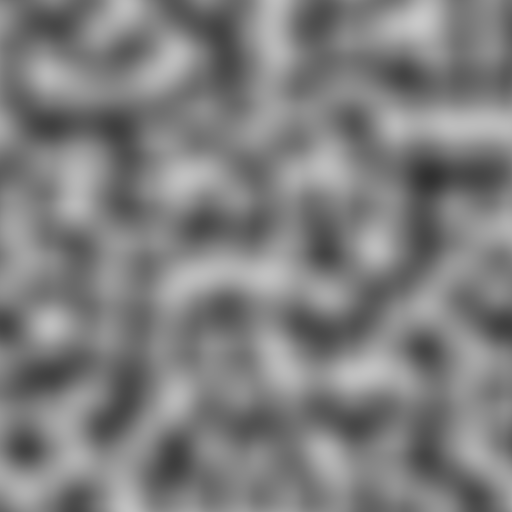
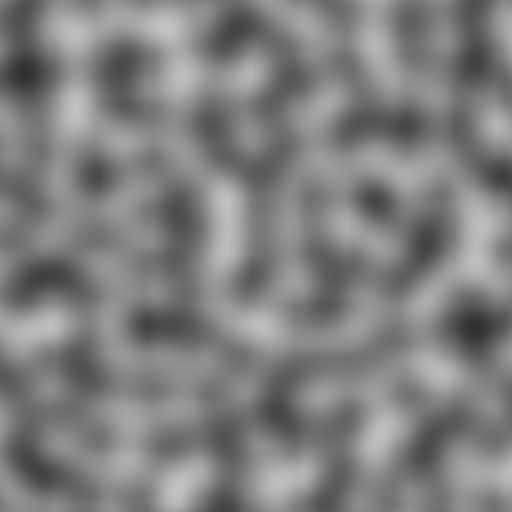
removed useless types anotation

diff --git a/src/main.rs b/src/main.rs
@@ -1,5 +1,5 @@
 use image::{GrayImage, Luma};
-use rand::{RngExt, rngs::ThreadRng};
+use rand::RngExt;
 use std::f64::consts::TAU;
 
 fn main() {
@@ -25,10 +25,9 @@ fn gradient_map(x: i32, y: i32) -> Vec<Vec<(f64, f64)>> {
 
 //function to get a random gradient vector
 fn gradient_vector() -> (f64, f64) {
-    let mut rng: ThreadRng = rand::rng();
+    let mut rng = rand::rng();
     let theta = rng.random_range(0.0..TAU);
-    let vector: (f64, f64) = (theta.cos(), theta.sin());
-    vector
+    (theta.cos(), theta.sin())
 }
 
 //function to smooth out the result and get a good transition between the cells
@@ -44,8 +43,8 @@ fn smooth_step(w: f64) -> f64 {
 
 //function to get the scalar product between the distance vector and the gradient vector
 fn dot_grid_gradient(ix: i32, iy: i32, x: f64, y: f64, gv: &[Vec<(f64, f64)>]) -> f64 {
-    let dx: f64 = x - ix as f64;
-    let dy: f64 = y - iy as f64;
+    let dx = x - ix as f64;
+    let dy = y - iy as f64;
     dx * gv[iy as usize][ix as usize].0 + dy * gv[iy as usize][ix as usize].1
 }
 
@@ -70,26 +69,25 @@ fn save_image(image: GrayImage) {
 //function calculating the value of the perlin noise at the coordinates given
 fn perlin(x: f64, y: f64, gv: &[Vec<(f64, f64)>]) -> f64 {
     //calculate the coords of the corners of the cell where the point is in
-    let x0: i32 = x.floor() as i32;
-    let x1: i32 = x0 + 1;
-    let y0: i32 = y.floor() as i32;
-    let y1: i32 = y0 + 1;
+    let x0 = x.floor() as i32;
+    let x1 = x0 + 1;
+    let y0 = y.floor() as i32;
+    let y1 = y0 + 1;
 
     //interpolation weight
-    let sx: f64 = x - x0 as f64;
-    let sy: f64 = y - y0 as f64;
+    let sx = x - x0 as f64;
+    let sy = y - y0 as f64;
 
     //interpolation between all points
-    let n0: f64 = dot_grid_gradient(x0, y0, x, y, gv);
-    let n1: f64 = dot_grid_gradient(x1, y0, x, y, gv);
-    let ix0: f64 = interpolate(n0, n1, sx);
+    let n0 = dot_grid_gradient(x0, y0, x, y, gv);
+    let n1 = dot_grid_gradient(x1, y0, x, y, gv);
+    let ix0 = interpolate(n0, n1, sx);
 
-    let n0: f64 = dot_grid_gradient(x0, y1, x, y, gv);
-    let n1: f64 = dot_grid_gradient(x1, y1, x, y, gv);
-    let ix1: f64 = interpolate(n0, n1, sx);
+    let n0 = dot_grid_gradient(x0, y1, x, y, gv);
+    let n1 = dot_grid_gradient(x1, y1, x, y, gv);
+    let ix1 = interpolate(n0, n1, sx);
 
-    let value: f64 = interpolate(ix0, ix1, sy);
-    value
+    interpolate(ix0, ix1, sy)
 }
 
 //function to generate the image as a PNG, gets an height and a widht and a scale
@@ -100,8 +98,7 @@ fn generate_image(height: i32, width: i32, scale: i32) {
     let gradient_width = gradient_width.ceil() + 1.0;
     let gradient_height = height as f64 / scale as f64;
     let gradient_height = gradient_height.ceil() + 1.0;
-    let gradient_map: Vec<Vec<(f64, f64)>> =
-        gradient_map(gradient_width as i32, gradient_height as i32);
+    let gradient_map = gradient_map(gradient_width as i32, gradient_height as i32);
 
     let mut image = GrayImage::new(width as u32, height as u32);
 
@@ -109,8 +106,8 @@ fn generate_image(height: i32, width: i32, scale: i32) {
     //the "scale" parameter is lower
     for y in 0..height {
         for x in 0..width {
-            let pixel_x: f64 = x as f64 / scale as f64;
-            let pixel_y: f64 = y as f64 / scale as f64;
+            let pixel_x = x as f64 / scale as f64;
+            let pixel_y = y as f64 / scale as f64;
 
             //calculate the perlin noise value for the current pixel
             let pixel_value = perlin(pixel_x, pixel_y, &gradient_map);
